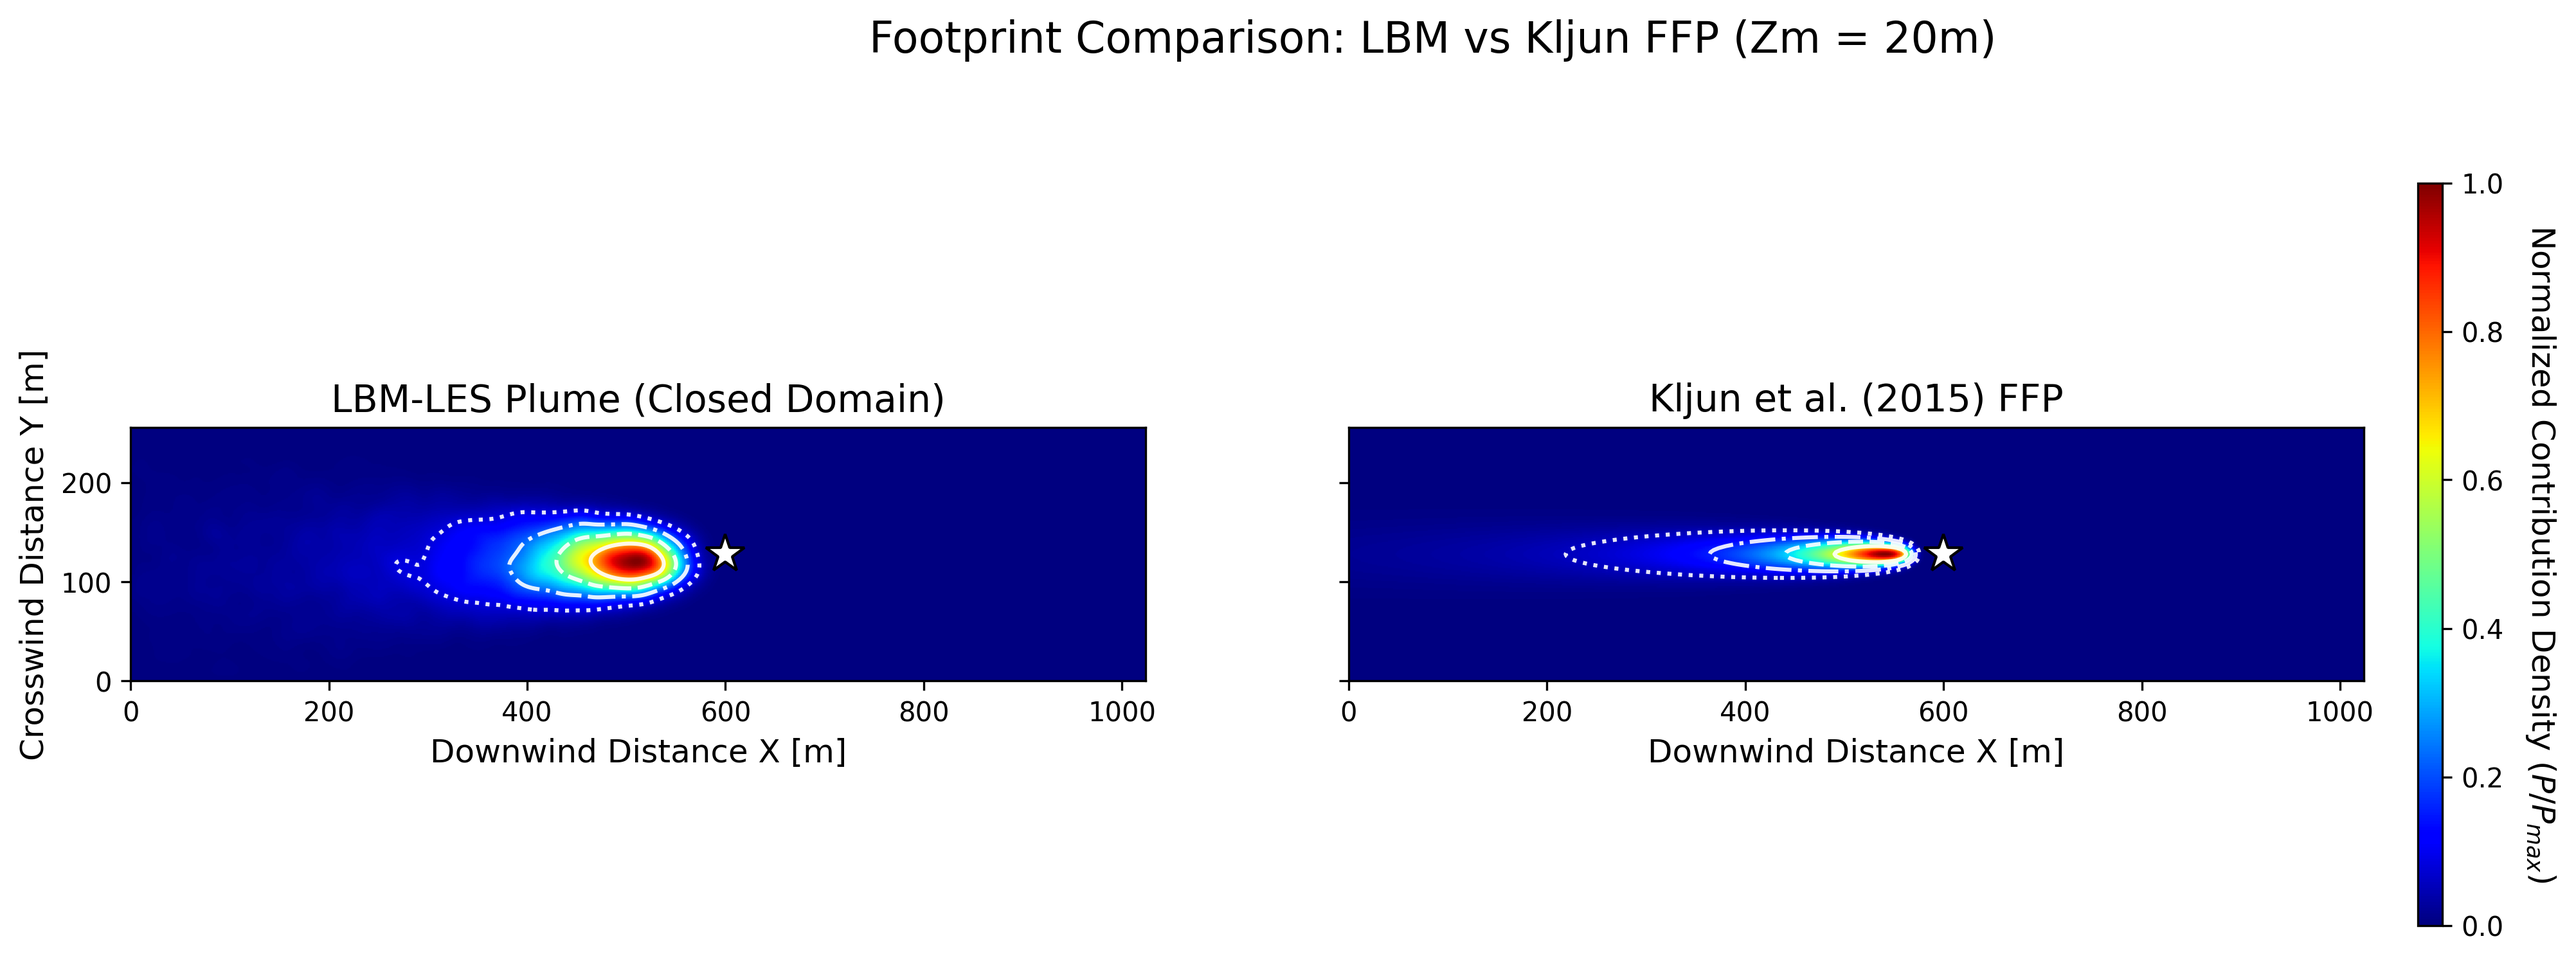
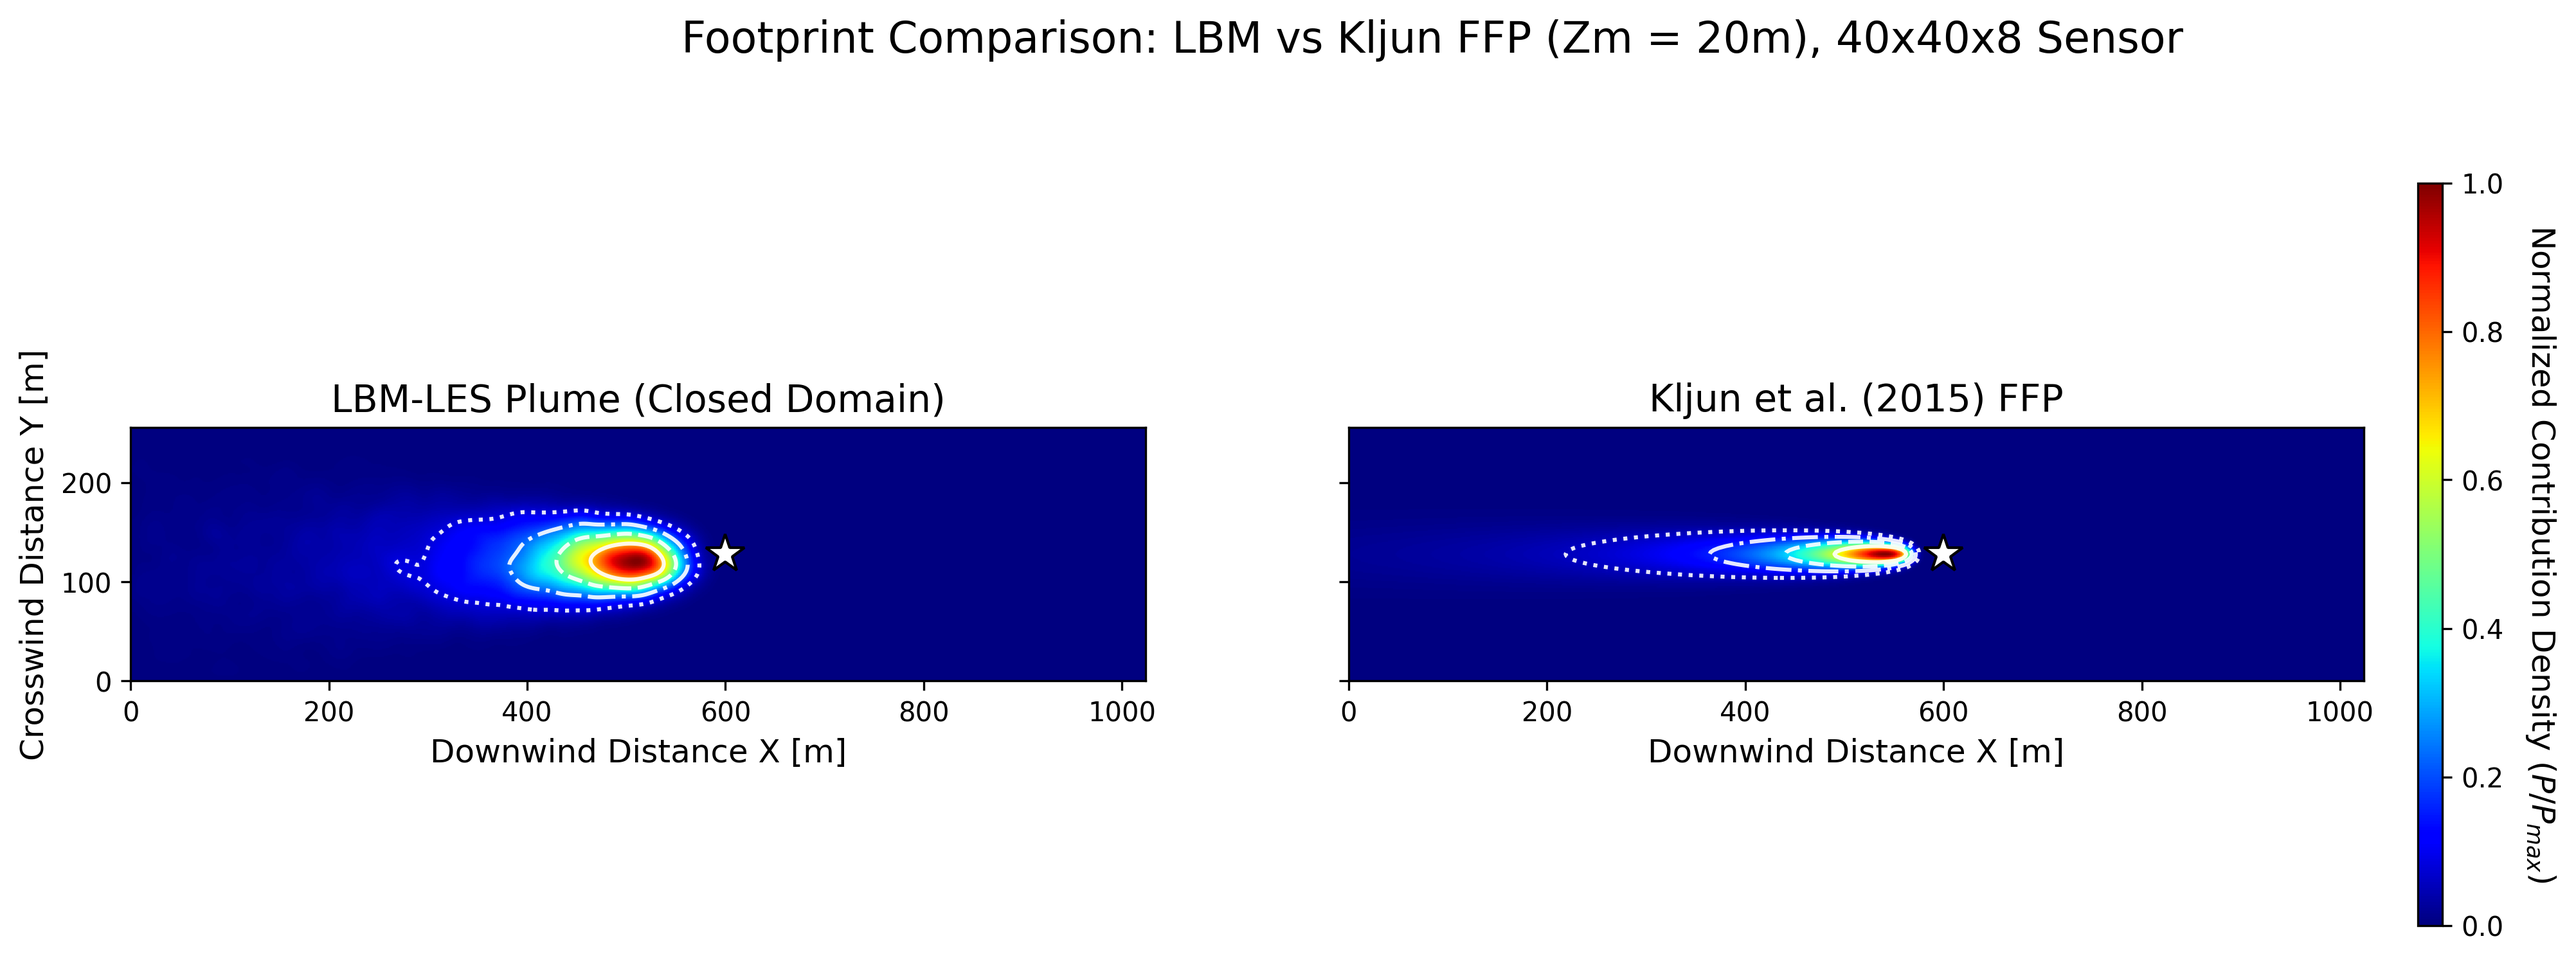
map visualization, sensor volume sensitivity

Changed region(s): [[0.2496, 0.0, 0.8423, 0.0615]]

diff --git a/scripts/plot_vertical_detection.py b/scripts/plot_vertical_detection.py
@@ -1,0 +1,66 @@
+import os
+import sys
+import glob
+import re
+
+# Ensure Python can find the modular packages
+sys.path.append(os.path.abspath(os.path.join(os.path.dirname(__file__), '..')))
+
+from data_loaders.footprint_io import load_footprint_counts
+from plotting_core.sensitivity_plots import plot_vertical_detection_profile
+
+def main():
+    # 1. Paths (Using the newly planned directory architecture)
+    input_dir = r"Z:\Particle_PostProcess_Outputs\20260527_particle_flat_3072\sensor_40x40x8\1200-1800_footprint"
+    output_dir = r"../figures/flat_domain/sensor_40x40x8/sensitivity"
+    
+    # Find all footprint CSVs for the specific sensor X, Y location
+    sensor_x, sensor_y = 600, 128
+    search_pattern = os.path.join(input_dir, f"footprint_{sensor_x}_{sensor_y}_*.csv")
+    csv_files = glob.glob(search_pattern)
+    
+    if not csv_files:
+        print(f"[ERROR] No CSV files found in {input_dir}")
+        sys.exit(1)
+        
+    print(f"Found {len(csv_files)} footprint files. Extracting counts...")
+    
+    data_points = []
+    
+    # Regex to extract the Z height from the filename (e.g., footprint_600_128_10.csv)
+    filename_regex = re.compile(rf"footprint_{sensor_x}_{sensor_y}_(\d+)\.csv")
+    
+    # 2. Process Files
+    for filepath in csv_files:
+        filename = os.path.basename(filepath)
+        match = filename_regex.match(filename)
+        
+        if match:
+            z_height = int(match.group(1))
+            
+            # Load the count dictionary {source_id: count}
+            count_map = load_footprint_counts(filepath)
+            
+            # Sum all values to get the total particles detected
+            total_particles = sum(count_map.values())
+            
+            data_points.append((z_height, total_particles))
+            print(f"  Z = {z_height:2d}m  -->  {total_particles:8f} particles")
+            
+    # 3. Sort by Height (Z)
+    data_points.sort(key=lambda x: x[0])
+    
+    # Unpack into separate lists for plotting
+    z_heights = [pt[0] for pt in data_points]
+    total_counts = [pt[1] for pt in data_points]
+    
+    # 4. Generate Plot
+    save_path = os.path.join(output_dir, "vertical_detection_profile.png")
+    title = f"Particle Detection Profile (Sensor: 40x40x8m at X={sensor_x}, Y={sensor_y})"
+    
+    plot_vertical_detection_profile(z_heights, total_counts, title, save_path)
+    
+    print(f"\nSuccess! Saved vertical profile to: {save_path}")
+
+if __name__ == "__main__":
+    main()

diff --git a/plotting_core/map_plots.py b/plotting_core/map_plots.py
@@ -1,0 +1,55 @@
+import matplotlib.pyplot as plt
+import numpy as np
+import os
+from matplotlib.colors import ListedColormap
+
+def plot_birdseye_domain(elevation_matrix, source_map, sensor_pos, title, save_path, dx=2.0, dy=2.0):
+    """
+    Plots a top-down view of the domain, overlaying building footprints, 
+    particle sources, and the sensor location.
+    """
+    ny, nx = elevation_matrix.shape
+    
+    # Create physical coordinate grids for plotting
+    x_physical = np.arange(0, nx * dx, dx)
+    y_physical = np.arange(0, ny * dy, dy)
+    X, Y = np.meshgrid(x_physical, y_physical)
+
+    # Wide aspect ratio (e.g., 1024m x 256m -> 4:1)
+    fig, ax = plt.subplots(figsize=(16, 4)) 
+    
+    # 1. Plot the Building Map
+    # Binary threshold: 0 is empty space (light gray), >0 is a building block (dark gray)
+    building_mask = elevation_matrix > 0
+    cmap = ListedColormap(['#f0f0f0', '#505050'])
+    
+    # pcolormesh perfectly aligns grid data with absolute coordinates
+    ax.pcolormesh(X, Y, building_mask, cmap=cmap, shading='nearest')
+
+    # 2. Plot the Sources
+    # Extract coordinates from the dictionary returned by load_source_positions
+    source_x = [src['x'] for src in source_map.values()]
+    source_y = [src['y'] for src in source_map.values()]
+    
+    ax.scatter(source_x, source_y, c='red', s=8, alpha=0.8, edgecolors='none', label='Particle Sources')
+
+    # 3. Plot the Sensor
+    ax.plot(sensor_pos[0], sensor_pos[1], marker='*', color='blue', markersize=16, 
+            markeredgecolor='black', label=f'Sensor Box Center')
+
+    # Formatting
+    ax.set_title(title, fontsize=14, pad=15)
+    ax.set_xlabel('Downwind Distance X [m]', fontsize=12)
+    ax.set_ylabel('Crosswind Distance Y [m]', fontsize=12)
+    
+    ax.set_xlim(0, nx * dx)
+    ax.set_ylim(0, ny * dy)
+    ax.set_aspect('equal', adjustable='box')
+    ax.grid(True, linestyle=':', alpha=0.6)
+    
+    # Place legend outside the main plot area so it doesn't cover data
+    ax.legend(loc='upper right', bbox_to_anchor=(1.15, 1.0))
+
+    os.makedirs(os.path.dirname(save_path), exist_ok=True)
+    plt.savefig(save_path, dpi=300, bbox_inches='tight')
+    plt.close()

diff --git a/scripts/visualize_domain.py b/scripts/visualize_domain.py
@@ -1,0 +1,62 @@
+import os
+import sys
+
+# Ensure Python can find the modular packages
+sys.path.append(os.path.abspath(os.path.join(os.path.dirname(__file__), '..')))
+
+from data_loaders.footprint_io import load_source_positions
+from data_loaders.map_io import load_lbm_map
+from plotting_core.map_plots import plot_birdseye_domain
+
+def main():
+    # 1. Paths
+    flat_map_path = r"Z:\map\map_01_flat_plane.dat"
+    cube_map_path = r"Z:\map\map_02_full_roughness.dat"
+    
+    flat_pos_path = r"Z:\particle_position\pos_flat_3072.txt"
+    cube_pos_path = r"Z:\particle_position\pos_cube_3072.txt"
+    
+    output_dir = r"../figures/map_visualizations"
+    
+    # Sensor Coordinates & Grid Resolution
+    sensor_x = 600.0
+    sensor_y = 128.0
+    dx = 2.0
+    dy = 2.0
+
+    # ==========================================
+    # DOMAIN 1: FLAT PLANE
+    # ==========================================
+    print("Visualizing Flat Domain...")
+    flat_matrix, _, _ = load_lbm_map(flat_map_path)
+    flat_sources = load_source_positions(flat_pos_path)
+    
+    plot_birdseye_domain(
+        elevation_matrix=flat_matrix, 
+        source_map=flat_sources, 
+        sensor_pos=(sensor_x, sensor_y), 
+        title="Bird's-Eye View: Flat Domain Source Distribution", 
+        save_path=os.path.join(output_dir, "domain_flat_plane.png"),
+        dx=dx, dy=dy
+    )
+
+    # ==========================================
+    # DOMAIN 2: CUBE ROUGHNESS
+    # ==========================================
+    print("Visualizing Cube Domain...")
+    cube_matrix, _, _ = load_lbm_map(cube_map_path)
+    cube_sources = load_source_positions(cube_pos_path)
+    
+    plot_birdseye_domain(
+        elevation_matrix=cube_matrix, 
+        source_map=cube_sources, 
+        sensor_pos=(sensor_x, sensor_y), 
+        title="Bird's-Eye View: Cube Canopy Source Distribution", 
+        save_path=os.path.join(output_dir, "domain_cubes.png"),
+        dx=dx, dy=dy
+    )
+    
+    print(f"Visualizations generated successfully in {output_dir}")
+
+if __name__ == "__main__":
+    main()

diff --git a/scripts/compare_kljun_lbm.py b/scripts/compare_kljun_lbm.py
@@ -16,11 +16,11 @@ from plotting_core.footprint_plots import plot_model_comparison
 
 def main():
     # 1. Paths and Setup
-    base_dir = r"Z:\Particle_PostProcess_Outputs\20260527_particle_flat_3072"
+    base_dir = r"Z:\Particle_PostProcess_Outputs\20260527_particle_flat_3072\sensor_40x40x8"
     pos_file = r"Z:\particle_position\particle_position.txt"
     params_path = r"../physics_core/metrics/schmid_params.json"
     lbm_profile_csv = r"Z:\20260527_output_flat_3072\prof00180000_0000.csv"
-    output_dir = r"../figures/20260527_kljun_comparisons"
+    output_dir = r"../figures/flat_domain/sensor_40x40x8/20260527_kljun_comparisons"
     os.makedirs(output_dir, exist_ok=True)
     
     x_bounds = [0, 1024]
@@ -102,7 +102,7 @@ def main():
             lbm_pdf=lbm_pdf_fine, model_pdf=kljun_pdf_fine, 
             lbm_thresholds=lbm_thresholds, model_thresholds=kljun_thresholds,
             sensor_pos=(sensor_x, sensor_y), 
-            title=f"Footprint Comparison: LBM vs Kljun FFP (Zm = {sz}m)",
+            title=f"Footprint Comparison: LBM vs Kljun FFP (Zm = {sz}m), 40x40x8 Sensor",
             model_title="Kljun et al. (2015) FFP",
             save_path=save_path, x_bounds=x_bounds, y_bounds=y_bounds
         )

diff --git a/plotting_core/sensitivity_plots.py b/plotting_core/sensitivity_plots.py
@@ -1,0 +1,32 @@
+import matplotlib.pyplot as plt
+import numpy as np
+import os
+
+def plot_vertical_detection_profile(z_heights, total_counts, title, save_path):
+    """
+    Plots the total number of particles detected against the sensor height (Z).
+    Height is plotted on the Y-axis to mirror a physical atmospheric profile.
+    """
+    fig, ax = plt.subplots(figsize=(6, 8))
+    
+    # Plot the profile
+    ax.plot(total_counts, z_heights, marker='o', linestyle='-', color='indigo', 
+            linewidth=2, markersize=8, markerfacecolor='white', markeredgewidth=2)
+    
+    # Formatting
+    ax.set_title(title, fontsize=14, pad=15)
+    ax.set_xlabel('Total Particles Detected [Count]', fontsize=12)
+    ax.set_ylabel('Sensor Height Z [m]', fontsize=12)
+    
+    # Set y-limits to start at ground level
+    ax.set_ylim(0, max(z_heights) + 5)
+    
+    # Optional: Log scale for X-axis if the drop-off is extreme
+    # ax.set_xscale('log')
+    
+    ax.grid(True, linestyle='--', alpha=0.7)
+    
+    # Save output securely
+    os.makedirs(os.path.dirname(save_path), exist_ok=True)
+    plt.savefig(save_path, dpi=300, bbox_inches='tight')
+    plt.close(fig)

diff --git a/scripts/plot_lbm_footprint.py b/scripts/plot_lbm_footprint.py
@@ -11,15 +11,15 @@ from plotting_core.footprint_plots import plot_absolute_footprint
 def main():
     # --- Configuration ---
     # Update these base paths to match your local/mounted Z: drive setup
-    base_dir = r"Z:\Particle_PostProcess_Outputs\20260527_particle_flat_3072"
+    base_dir = r"Z:\Particle_PostProcess_Outputs\20260527_particle_flat_3072\sensor_8x8x8"
     pos_file = r"Z:\particle_position\particle_position.txt"
-    output_dir = r"../figures/flat_domain/sensor_40x40x8/20260527_flat_footprints/raw_footprints"
+    output_dir = r"../figures/flat_domain/sensor_8x8x8/20260527_flat_footprints/raw_footprints"
     
     # List of sensors to process (x, y, z)
     sensors = [
-        (600, 128, 50),
-        (600, 96, 50),
-        (600, 160, 50)
+        (600, 128, 20),
+        (600, 96, 20),
+        (600, 160, 20)
     ]
     
     # Known domain bounds: 512 grids * 2m = 1024m (X), 128 grids * 2m = 256m (Y)

diff --git a/data_loaders/map_io.py b/data_loaders/map_io.py
@@ -1,0 +1,20 @@
+import numpy as np
+
+def load_lbm_map(filepath):
+    """
+    Loads an LBM .dat map file.
+    Extracts grid dimensions from the first line and reads the elevation matrix.
+    """
+    with open(filepath, 'r') as f:
+        header = f.readline().strip().split()
+        nx = int(header[0])
+        ny = int(header[1])
+
+    # Load the matrix, skipping the dimension header
+    elevation_matrix = np.loadtxt(filepath, skiprows=1)
+    
+    # Ensure standard matrix orientation (Y-axis = rows, X-axis = columns)
+    if elevation_matrix.shape != (ny, nx):
+        elevation_matrix = elevation_matrix.reshape((ny, nx))
+        
+    return elevation_matrix, nx, ny
